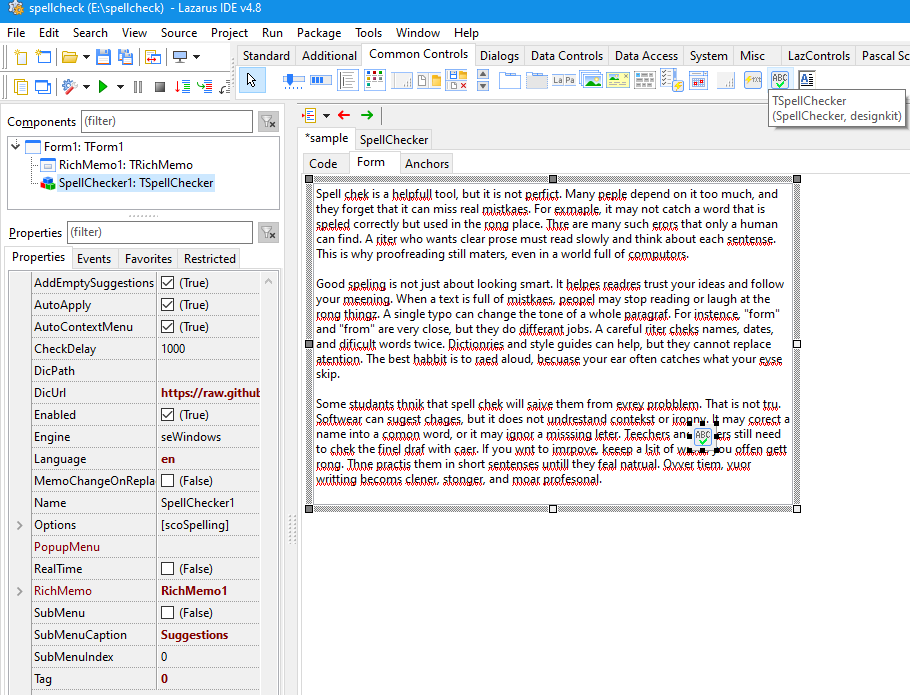
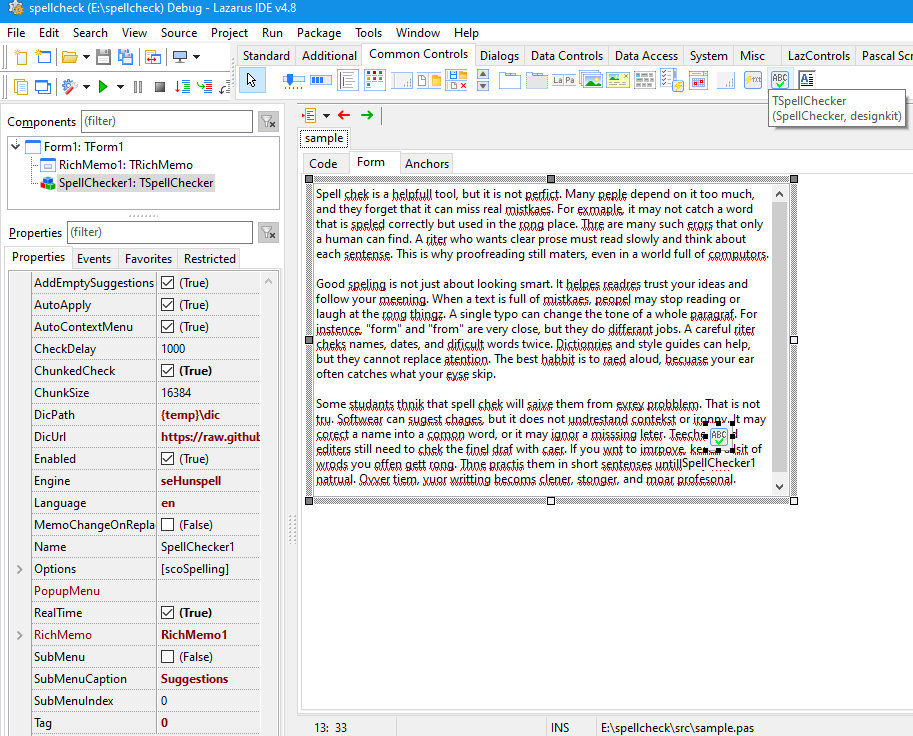
Partial error checking

diff --git a/README.md b/README.md
@@ -40,6 +40,8 @@ Main properties:
 | `Engine` | Engine: `seWindows` or `seHunspell`. |
 | `DicPath` | Hunspell dictionaries directory; also a cache for downloads via `DicUrl`. |
 | `DicUrl` | URL template for automatic dictionary download. |
+| `ChunkedCheck` | When `True`, large texts are checked in chunks and underlines are drawn incrementally, starting from the visible area. |
+| `ChunkSize` | Size of one chunk in bytes when `ChunkedCheck` is enabled. Default is `16384`. |
 
 Events:
 
